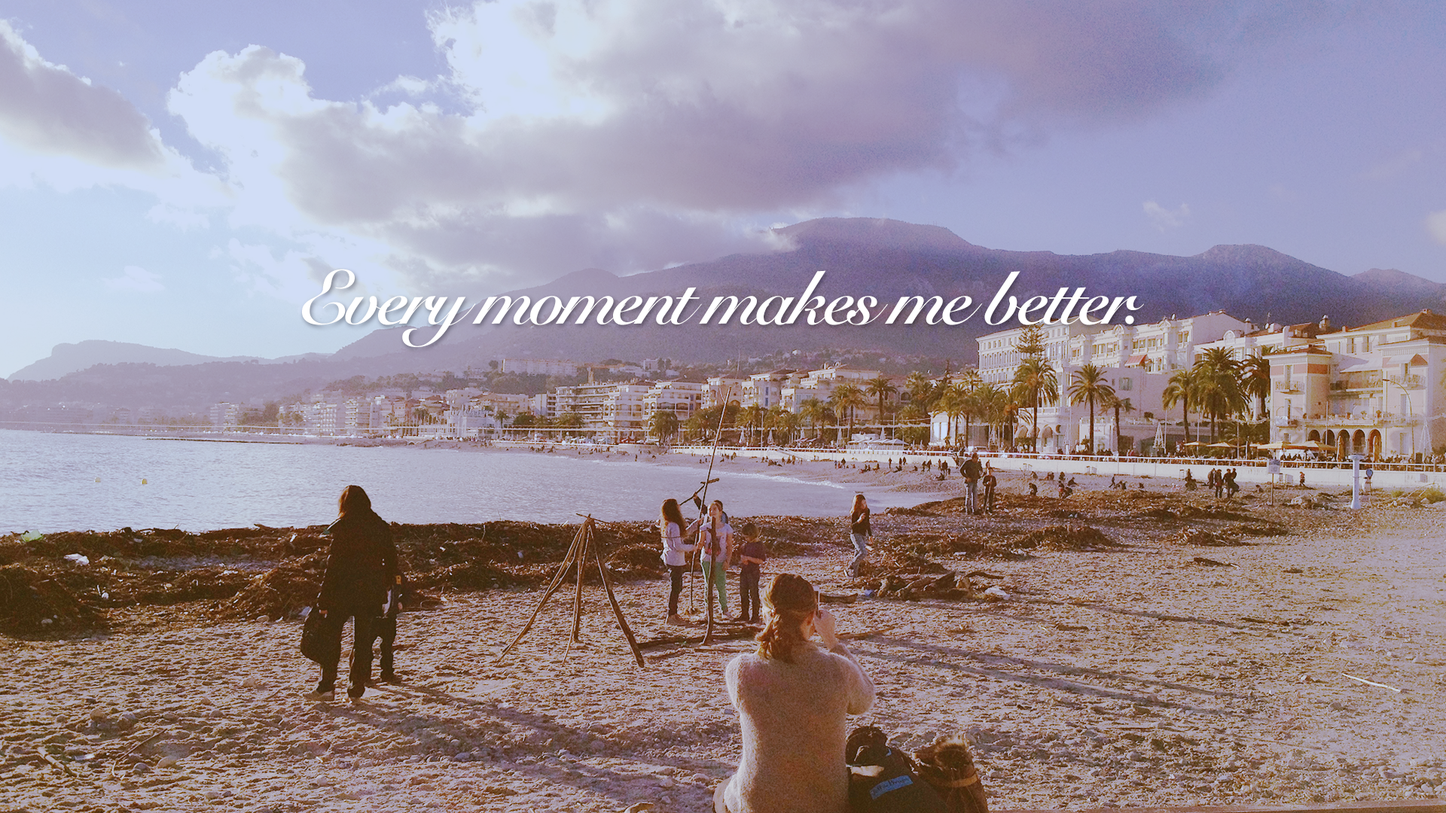
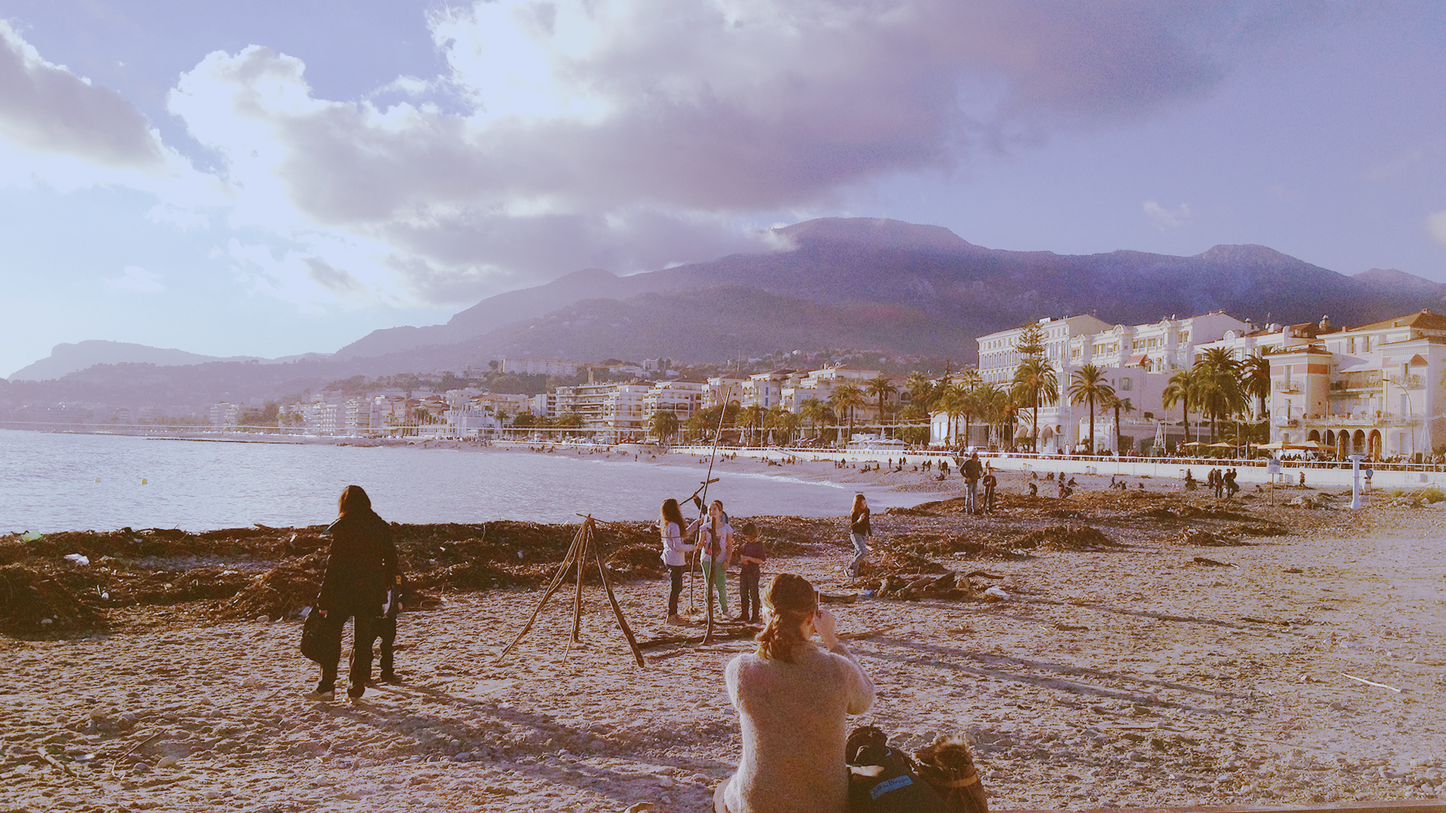
all

Changed region(s): [[0.1875, 0.3361, 0.8125, 0.4278]]

diff --git a/index.html b/index.html
@@ -10,6 +10,7 @@
     <link href='http://fonts.googleapis.com/css?family=Roboto:300,300italic' rel='stylesheet' type='text/css'>
     <link href='http://fonts.googleapis.com/earlyaccess/nanumgothic.css' rel='stylesheet' type='text/css'>
     <link href='http://fonts.googleapis.com/css?family=Crimson+Text' rel='stylesheet' type='text/css'>
+    <link href='http://fonts.googleapis.com/css?family=Niconne' rel='stylesheet' type='text/css'>
     <script src="//ajax.googleapis.com/ajax/libs/jquery/2.1.1/jquery.min.js"></script>
     <script src="//ajax.googleapis.com/ajax/libs/jqueryui/1.11.1/jquery-ui.min.js"></script>
     <!--<link href='http://fonts.googleapis.com/css?family=Droid+Serif' rel='stylesheet' type='text/css'>-->
@@ -58,7 +59,7 @@
 </header>
 
 <div class="fade-in three main">
-    <!--<p class="word">Every moment makes me better.</p>-->
+    <p class="word">Every moment makes me better.</p>
 </div>
 
 <!--recent page contents-->
@@ -227,7 +228,7 @@
 
 <!--recent contents 2 end-->
 
-<!--&lt;!&ndash;9page contents&ndash;&gt;-->
+<!--<!--9page contents-->-->
 <!--<div class="module">-->
     <!--<div class="container container2">-->
         <!--<div class="box fade-in three box1">-->
@@ -315,7 +316,7 @@
     <!--</div>-->
 <!--</div>-->
 
-<!--&lt;!&ndash;9page contents end&ndash;&gt;-->
+<!--<!--9page contents end-->-->
 
 <!--8page contents-->
 <div class="module">

diff --git a/css/main.css b/css/main.css
@@ -120,6 +120,7 @@ header {
     width: 100%;
     position: fixed;
     z-index: 999;
+    background-color: #ffffff;
 }
 
 
@@ -130,7 +131,7 @@ header {
 }
 
 .header-container {
-    width: 100%;
+    width: 80.5em;
     height: 80px;
     margin: 0 auto;
     padding-top: 40px;
@@ -205,13 +206,14 @@ p {
 
 
 .word{
-    font-family: 'Crimson Text', serif;
-    font-weight: 800;
-    font-size: 34px;
-    padding: 350px;
-    color: #ffffff;
+    font-family: 'Niconne', cursive;
+    font-weight: 400;
+    font-size: 64px;
+    padding: 250px;
+    color: white;
     text-align: center;
-    letter-spacing: 0.1em;
+    text-shadow: 1px 1px 2px #444444;
+    letter-spacing: 0;
 }
 
 /*1 page contents*/
